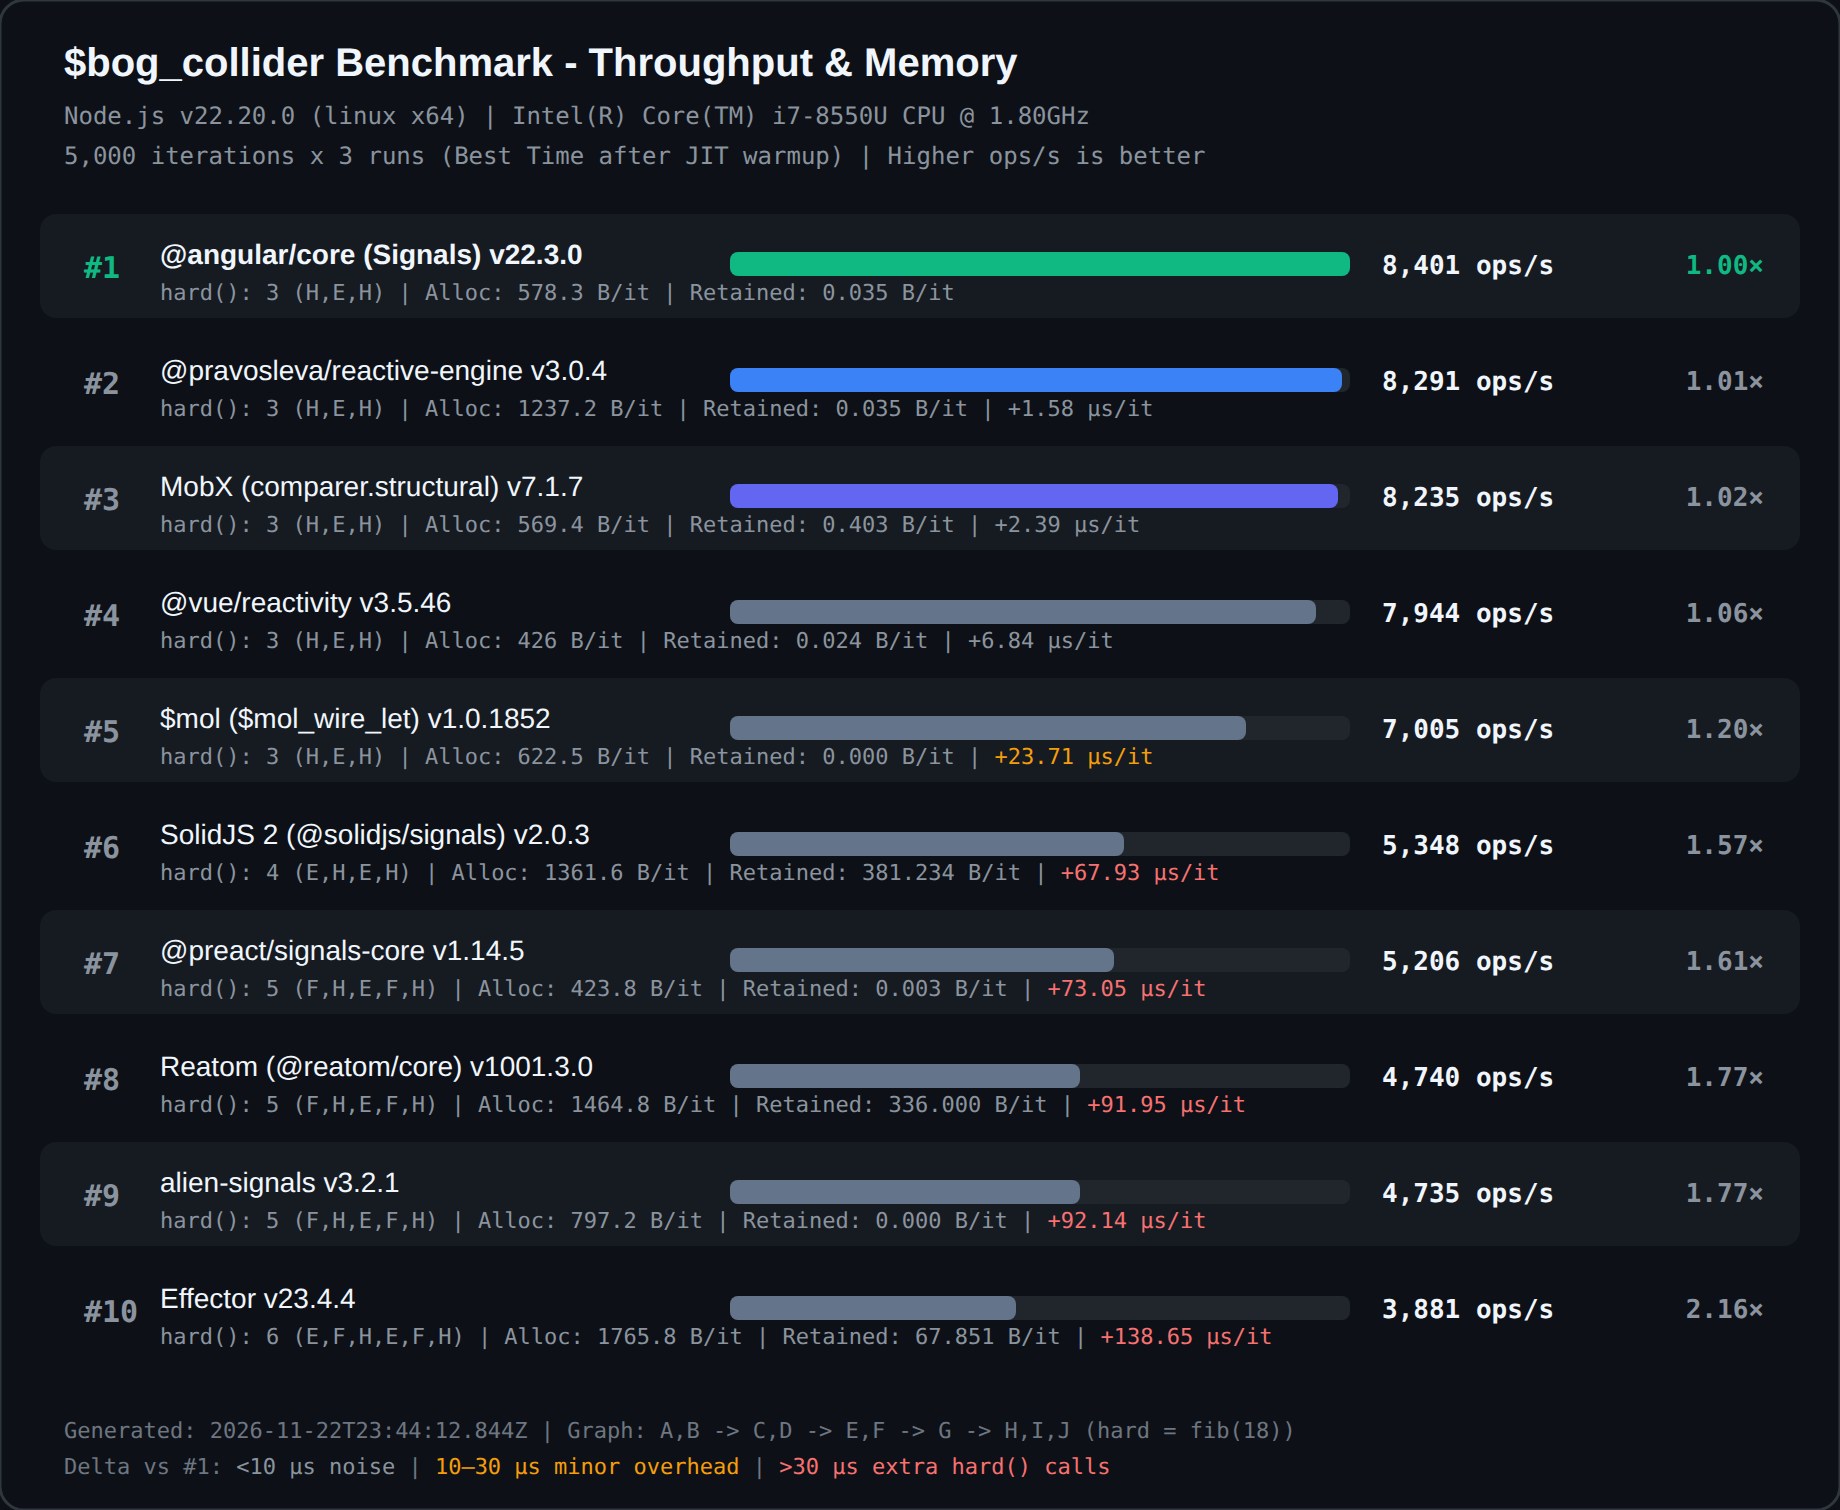
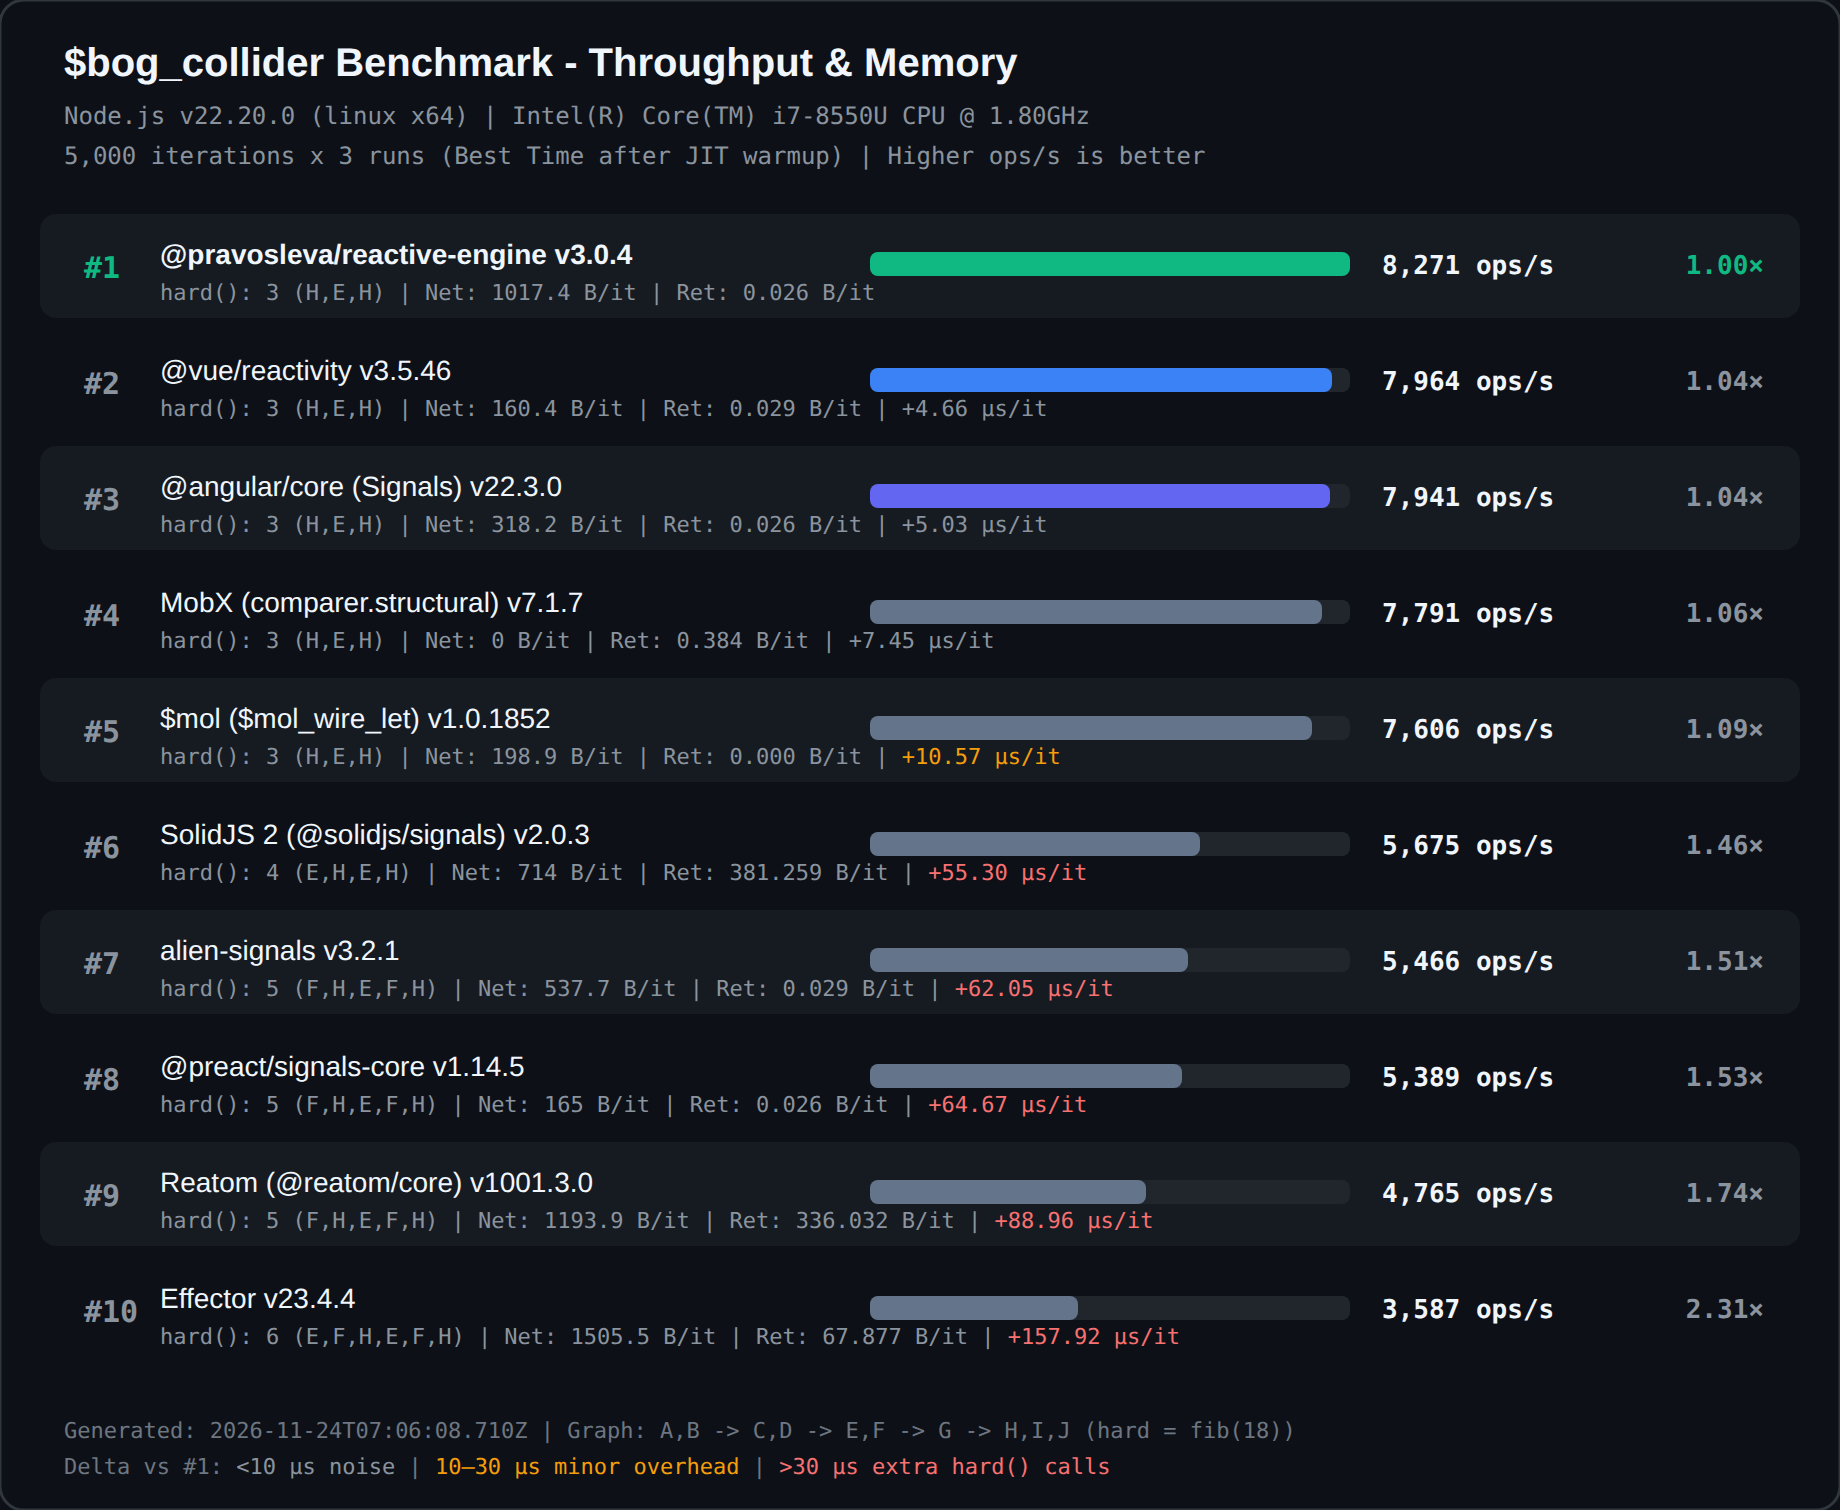
metrics added

diff --git a/README.md b/README.md
@@ -46,7 +46,7 @@
 
 ## Параметры стенда
 
-* **Дата замера:** 23 нояб. 2026 г., 02:44
+* **Дата замера:** 24 нояб. 2026 г., 10:06
 * **Среда:** Node.js `v22.20.0` (`linux x64`)
 * **Процессор:** `Intel(R) Core(TM) i7-8550U CPU @ 1.80GHz`
 * **Нагрузка:** `5 000` двухшаговых итераций × `3` контрольных прогона (учитывается минимальное время после JIT-прогрева)
@@ -54,18 +54,18 @@
 
 ## Сводная таблица результатов
 
-| Rank | Engine | `hard()` calls | Best Time (ms) | ops/sec | Alloc (B/iter) | Retained (B/iter) | Ratio |
-| :---: | :--- | :---: | :---: | :---: | :---: | :---: | :---: |
-| 1 | **@angular/core (Signals) `v22.3.0`** | `3 (H,E,H)` | 595.20 | **8 401** | 578.3 | 0.035 | **1.00×** |
-| 2 | @pravosleva/reactive-engine `v3.0.4` | `3 (H,E,H)` | 603.08 | 8 291 | 1237.2 | 0.035 | 1.01× |
-| 3 | MobX (comparer.structural) `v7.1.7` | `3 (H,E,H)` | 607.17 | 8 235 | 569.4 | 0.403 | 1.02× |
-| 4 | @vue/reactivity `v3.5.46` | `3 (H,E,H)` | 629.42 | 7 944 | 426 | 0.024 | 1.06× |
-| 5 | $mol ($mol_wire_let) `v1.0.1852` | `3 (H,E,H)` | 713.73 | 7 005 | 622.5 | 0.000 | 1.20× |
-| 6 | SolidJS 2 (@solidjs/signals) `v2.0.3` | `4 (E,H,E,H)` | 934.84 | 5 348 | 1361.6 | 381.234 | 1.57× |
-| 7 | @preact/signals-core `v1.14.5` | `5 (F,H,E,F,H)` | 960.47 | 5 206 | 423.8 | 0.003 | 1.61× |
-| 8 | Reatom (@reatom/core) `v1001.3.0` | `5 (F,H,E,F,H)` | 1054.95 | 4 740 | 1464.8 | 336.000 | 1.77× |
-| 9 | alien-signals `v3.2.1` | `5 (F,H,E,F,H)` | 1055.89 | 4 735 | 797.2 | 0.000 | 1.77× |
-| 10 | Effector `v23.4.4` | `6 (E,F,H,E,F,H)` | 1288.44 | 3 881 | 1765.8 | 67.851 | 2.16× |
+| Rank | Engine | `hard()` calls | Best Time (ms) | ops/sec | Alloc (B/iter) | Net Alloc (B/iter) | Retained (B/iter) | Ratio |
+| :---: | :--- | :---: | :---: | :---: | :---: | :---: | :---: | :---: |
+| **1** | **@pravosleva/reactive-engine `v3.0.4`** | `3 (H,E,H)` | `604.52` | `8271` | `1238.9` | `1017.4` | `0.026` | `1.00×` |
+| **2** | @vue/reactivity `v3.5.46` | `3 (H,E,H)` | `627.83` | `7964` | `426` | `160.4` | `0.029` | `1.04×` |
+| **3** | @angular/core (Signals) `v22.3.0` | `3 (H,E,H)` | `629.67` | `7941` | `578.3` | `318.2` | `0.026` | `1.04×` |
+| **4** | MobX (comparer.structural) `v7.1.7` | `3 (H,E,H)` | `641.79` | `7791` | `219.6` | `0` | `0.384` | `1.06×` |
+| **5** | $mol ($mol_wire_let) `v1.0.1852` | `3 (H,E,H)` | `657.39` | `7606` | `458` | `198.9` | `0.000` | `1.09×` |
+| **6** | SolidJS 2 (@solidjs/signals) `v2.0.3` | `4 (E,H,E,H)` | `881.02` | `5675` | `1361.5` | `714` | `381.259` | `1.46×` |
+| **7** | alien-signals `v3.2.1` | `5 (F,H,E,F,H)` | `914.75` | `5466` | `796.6` | `537.7` | `0.029` | `1.51×` |
+| **8** | @preact/signals-core `v1.14.5` | `5 (F,H,E,F,H)` | `927.85` | `5389` | `423.8` | `165` | `0.026` | `1.53×` |
+| **9** | Reatom (@reatom/core) `v1001.3.0` | `5 (F,H,E,F,H)` | `1049.33` | `4765` | `1464.2` | `1193.9` | `336.032` | `1.74×` |
+| **10** | Effector `v23.4.4` | `6 (E,F,H,E,F,H)` | `1394.1` | `3587` | `1765.9` | `1505.5` | `67.877` | `2.31×` |
 
 ## Легенда колонок
 
@@ -122,3 +122,9 @@ bash bench.sh --update --local
 - В красную зону (`> 30 μs`) автоматически попадают все библиотеки, которые допустили хотя бы один лишний вызов `hard()` (`4`, `5` или `6` вызовов вместо `3`) — то есть не смогли отсечь невостребованную ветку `E` или погасить пересчёт при неизменном массиве `D`.
 
 _Это делает цветовую индикацию на диаграмме более осмысленной: она мгновенно отделяет **архитектурно оптимальное вычисление графа** от **лишней работы**._
+
+### Как интерпретировать метрики памяти (`Alloc`, `Net Alloc` и `Retained`)
+
+* **`Alloc (B/iter)`** — общие временные аллокации в куче V8 (Young Generation) за одну двухшаговую итерацию до вызова сборщика мусора, включая пересоздание массивов `numbers.map(...)` внутри самого теста (~400–500 байт/итерация).
+* **`Net Alloc (B/iter)`** — чистые накладные расходы самого реактивного движка (`Alloc` за вычетом базового следа `baseline` без реактивности). Отражает стоимость работы планировщика, пересборки зависимостей и замыканий на один тик графа.
+* **`Retained (B/iter)`** — остаточная память в куче V8 после двойного принудительного вызова `global.gc()`. Значения `< 0.500 B/iter` соответствуют отсутствию утечек памяти; более высокие значения указывают на накопление кэшей или истории внутри графа.
